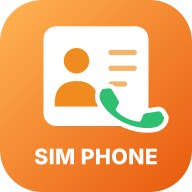
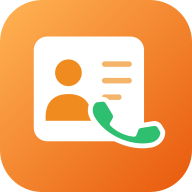
SIM TV·SIM Phone 아이콘: 앱 이름 글자 제거, 그림만 중앙 배치
Claude-Session: https://claude.ai/code/session_01JdTac8etS199q6ead3GPeR

Changed region(s): [[0.1562, 0.125, 0.9062, 0.875], [0.5312, 0.25, 0.7188, 0.375]]

diff --git a/tv.html b/tv.html
@@ -8,7 +8,7 @@
 <meta name="apple-mobile-web-app-capable" content="yes">
 <meta name="apple-mobile-web-app-title" content="SIM TV">
 <meta name="apple-mobile-web-app-status-bar-style" content="black-translucent">
[2 lines of base64/hex data omitted]
 
 <title>SIM TV</title>
 <script src="https://cdn.jsdelivr.net/npm/hls.js@1/dist/hls.min.js"></script>
@@ -150,7 +150,7 @@ aside{min-height:0;width:340px;max-width:42vw;display:flex;flex-direction:column
 <body class="tvoff">
 <header>
   <a class="back" href="index.html" aria-label="SIM Tools 런처로" title="런처로">‹</a>
[2 lines of base64/hex data omitted]
   <div class="spacer"></div>
   <button class="icon" id="btnPip" title="화면 속 화면">PIP</button>
   <button id="btnScan" title="전체 채널 검토">검토</button>

diff --git a/sw.js b/sw.js
@@ -1,6 +1,6 @@
 // SIM Tools service worker: 앱 껍데기(HTML·아이콘)만 캐시. 방송 스트림 등 외부 요청은 건드리지 않음.
 // 새 툴 파일을 추가하면 SHELL 목록에 넣고 CACHE 숫자를 올리세요.
-const CACHE = 'simwebtools-shell-v232';
+const CACHE = 'simwebtools-shell-v233';
 const SHELL = ['./brief-sounds/brief_s_chime.wav', './brief-sounds/brief_s_pop.wav', './brief-sounds/brief_s_bell.wav', './brief-sounds/brief_s_harp.wav', './brief-sounds/brief_s_game.wav', './brief-sounds/brief_s_morning.wav', './brief-sounds/brief_s_synth.wav', './', './index.html', './ui-guard.js', './tv.html', './note.html', './manifest.webmanifest',
   './icon-192.png', './icon-512.png', './icon-maskable-512.png', './apple-touch-icon.png', './tv-icon-192.png', './note-icon-192.png', './phone.html', './phone-icon-192.png', './aitel.html', './aitel-icon-192.png', './assistant.html', './qr.min.js', './sync.js', './appmenu.js', './assistant-icon-192.png', './calendar.html', './calendar.webmanifest', './calendar-icon-192.png', './calendar-icon-512.png', './calendar-icon-maskable-512.png', './pin-icon.svg', './folder.html', './folder-icon-192.png', './message.html', './message-icon-192.png', './orchestra.html', './orchestra-icon-192.png', './radio.html', './radio-icon-192.png', './calc.html', './calc-icon-192.png', './kbo.html', './kbo-icon-192.png', './kbo-bg.png', './ai-gemini.png', './ai-groq.png', './map.html', './map-icon-192.png', './cat-food.png', './cat-hospital.png', './pad.html', './pad-icon-192.png', './teams.html', './teams-icon-192.png', './scan.html', './scan-icon-192.png', './recipe.html', './recipe-icon-192.png', './brief.html', './brief-icon-192.png', './price.html', './price-icon-192.png'];
 
